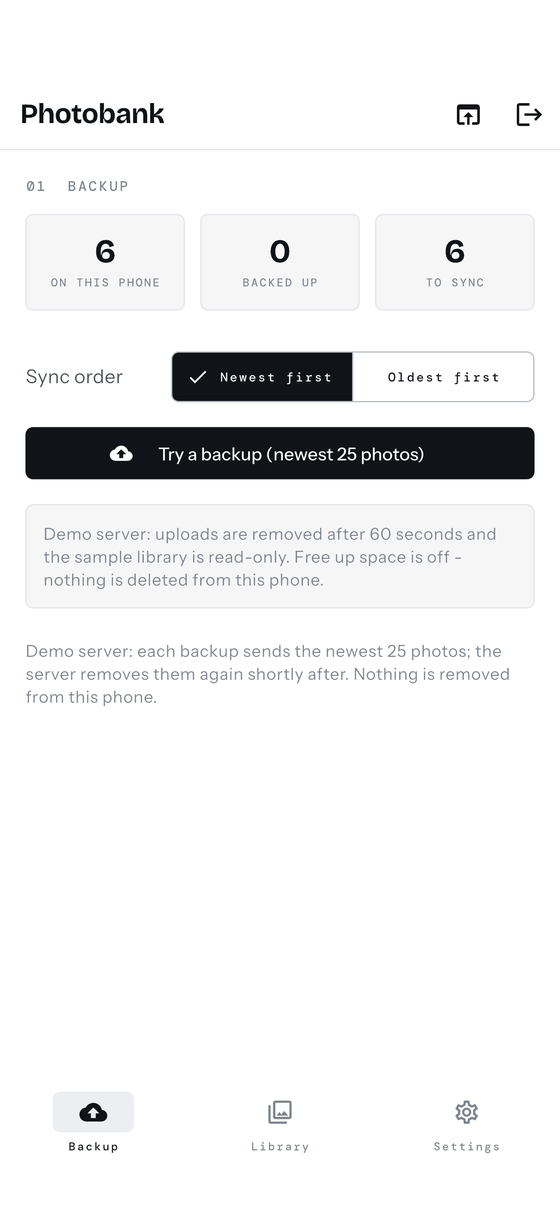
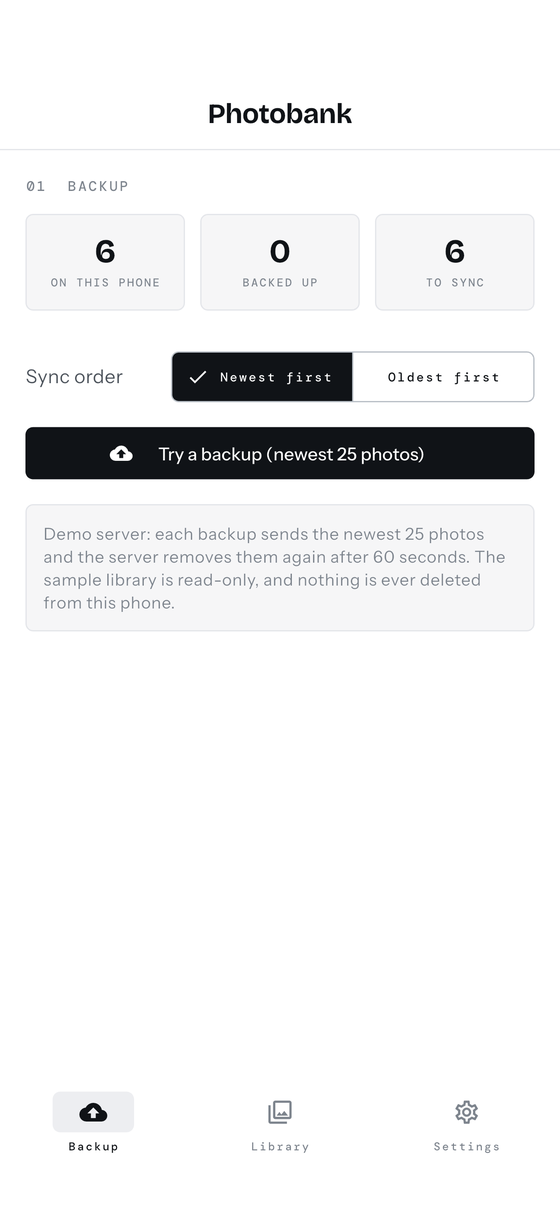
Website: final iPhone captures (backup + Library) from the App Store screenshot run
Claude-Session: https://claude.ai/code/session_012PCzusrhBG3xpHjKMDhStV

diff --git a/site/index.html b/site/index.html
@@ -71,11 +71,12 @@
     .hero p.lead { font-size: 20px; max-width: 640px; margin: 22px 0 30px; color: var(--ink-2); }
     .downloads { display: flex; flex-wrap: wrap; gap: 10px; align-items: center; }
     .downloads .note { width: 100%; font-size: 13px; color: var(--faint); margin-top: 6px; }
-    .shots { margin-top: 56px; display: grid; grid-template-columns: 1fr 260px; gap: 20px; align-items: start; }
+    .shots { margin-top: 56px; display: grid; grid-template-columns: 1fr 230px 230px; gap: 20px; align-items: start; }
     .shots figure { margin: 0; }
     .shots .frame { border: var(--hairline); border-radius: var(--radius); overflow: hidden; background: var(--surface); }
     .shots figcaption { margin-top: 8px; }
-    @media (max-width: 820px) { .shots { grid-template-columns: 1fr; } .shots .phone { max-width: 260px; } }
+    @media (max-width: 920px) { .shots { grid-template-columns: 1fr 1fr; } .shots .desktop { grid-column: 1 / -1; } }
+    @media (max-width: 560px) { .shots { grid-template-columns: 1fr; } .shots .phone { max-width: 260px; } }
 
     /* steps */
     .steps { display: grid; grid-template-columns: repeat(3, 1fr); gap: 16px; }
@@ -140,13 +141,17 @@
       </div>
 
       <div class="shots">
-        <figure>
+        <figure class="desktop">
           <div class="frame"><img src="img/desktop-console.png" width="1280" height="590" alt="The Photobank desktop app: the administrator's Console showing the library size, the address on the network, and where photos are stored" /></div>
           <figcaption class="mono">Desktop · the Console: server, accounts, redundancy backup</figcaption>
         </figure>
         <figure class="phone">
           <div class="frame"><img src="img/phone-backup.png" width="560" height="1217" alt="The Photobank iPhone app's backup screen with counts of photos on the phone, backed up, and left to sync" /></div>
           <figcaption class="mono">iPhone · backup at a glance</figcaption>
+        </figure>
+        <figure class="phone">
+          <div class="frame"><img src="img/phone-library.jpg" width="560" height="1217" alt="The Photobank iPhone app's Library: months of photos with a cloud badge on each backed-up one, filtered by All, Server or Phone" /></div>
+          <figcaption class="mono">iPhone · the library, by month</figcaption>
         </figure>
       </div>
     </div>
